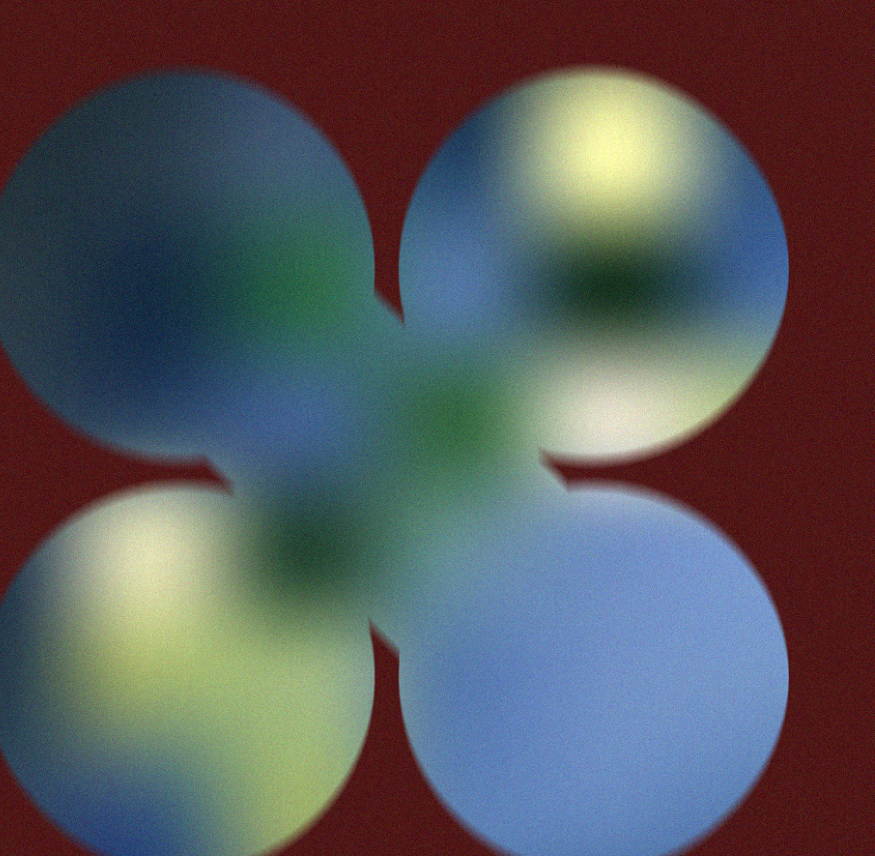
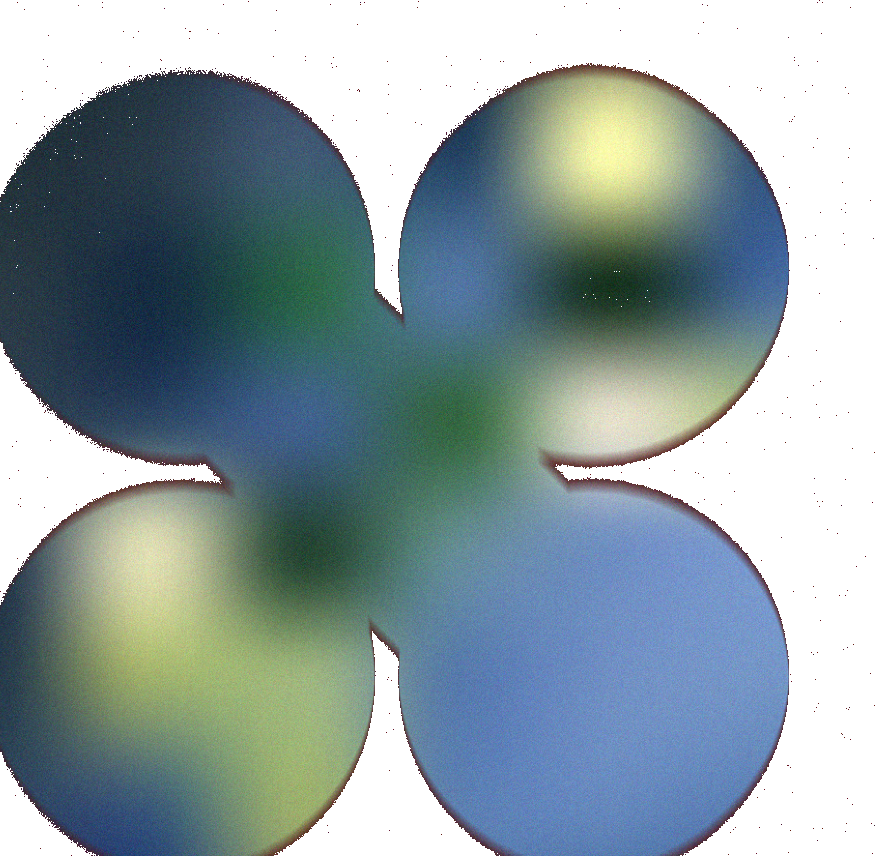
Remove grainy background from clover PNG
- Made clover PNG background transparent (was noisy burgundy pixels)
- Match hero background to #4C2015 for seamless blend
- Clover petals now float cleanly against the flat hero color

diff --git a/styles.css b/styles.css
@@ -219,7 +219,7 @@ img { max-width: 100%; display: block; }
 .hero {
   margin: 0;
   position: relative;
-  background: var(--burgundy);
+  background: #4C2015;
   overflow: hidden;
   aspect-ratio: 16 / 7;
   display: flex;
